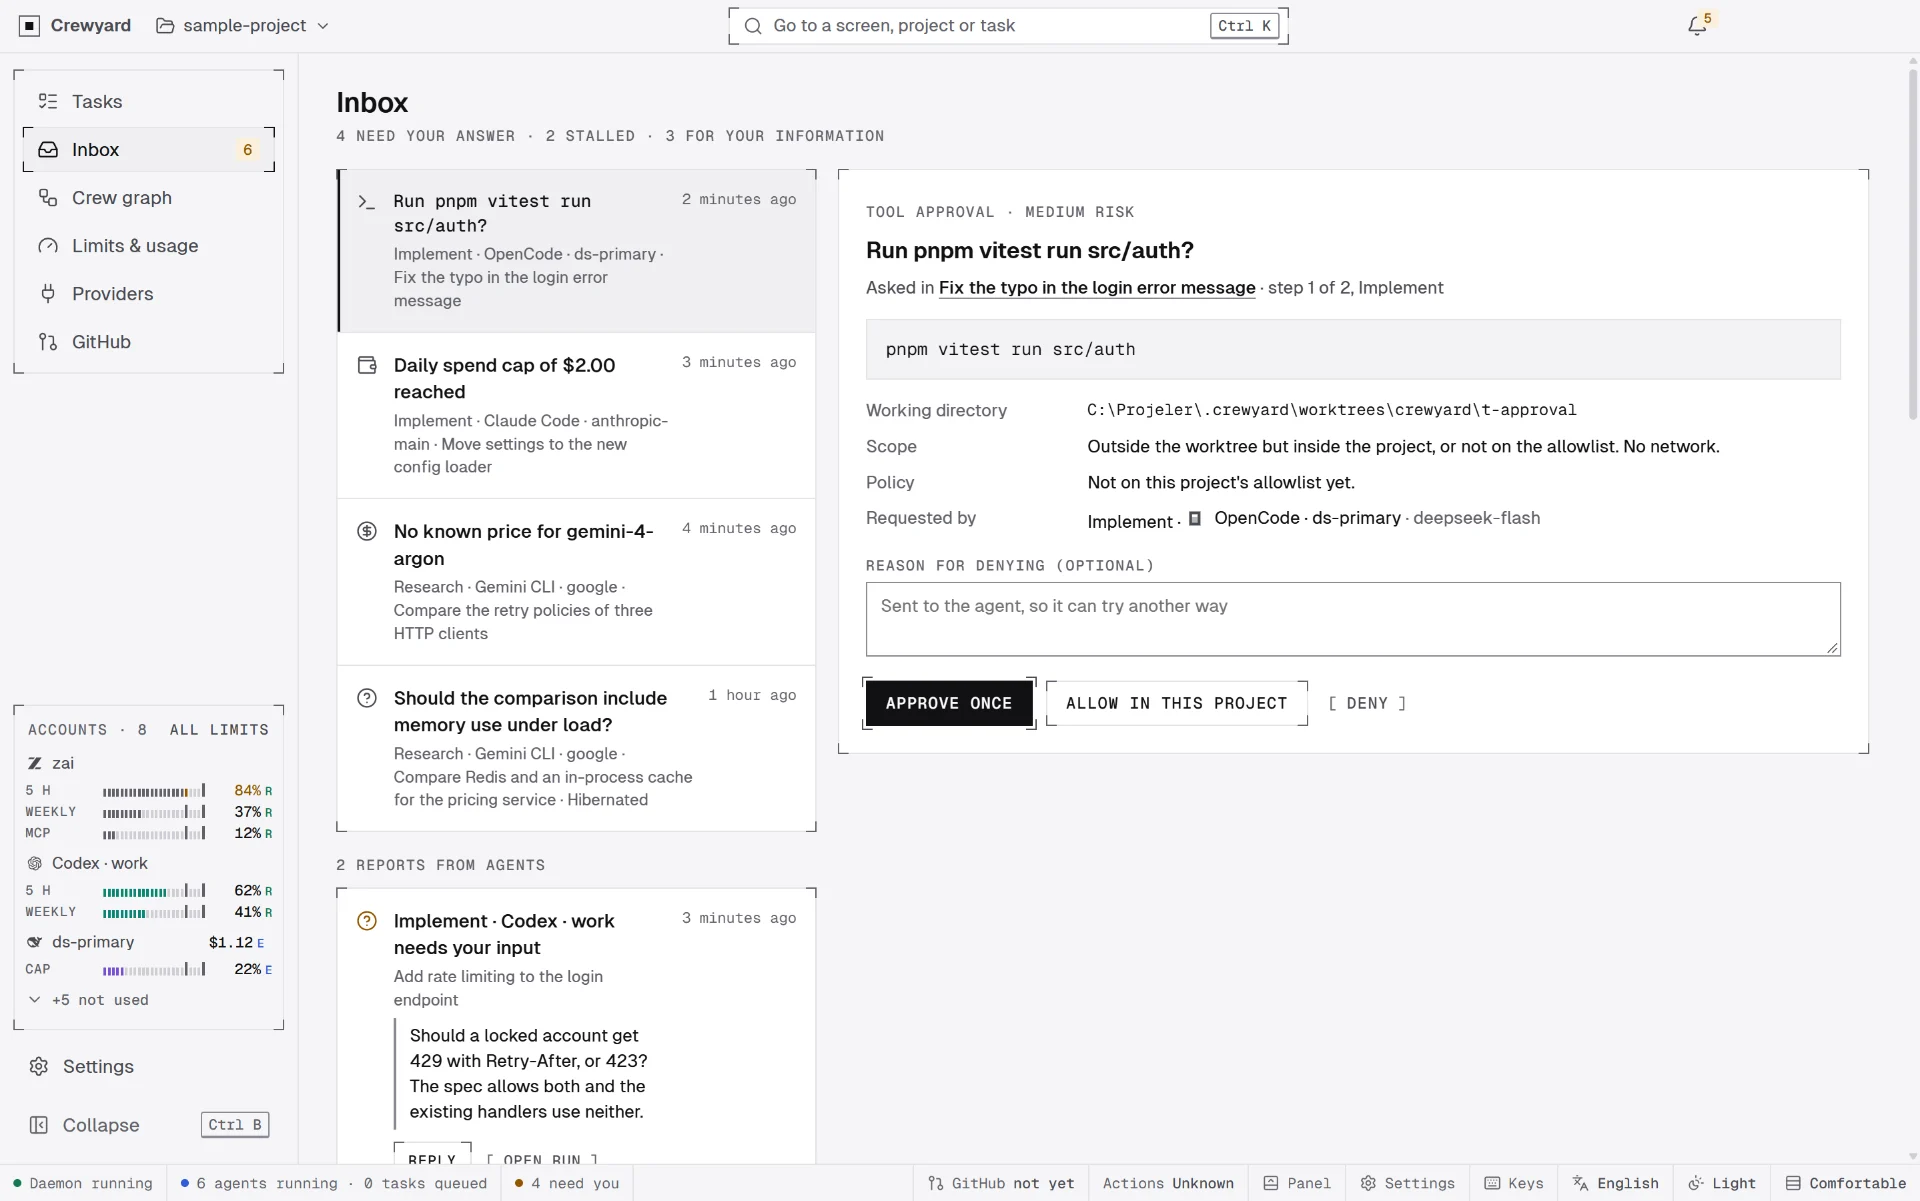
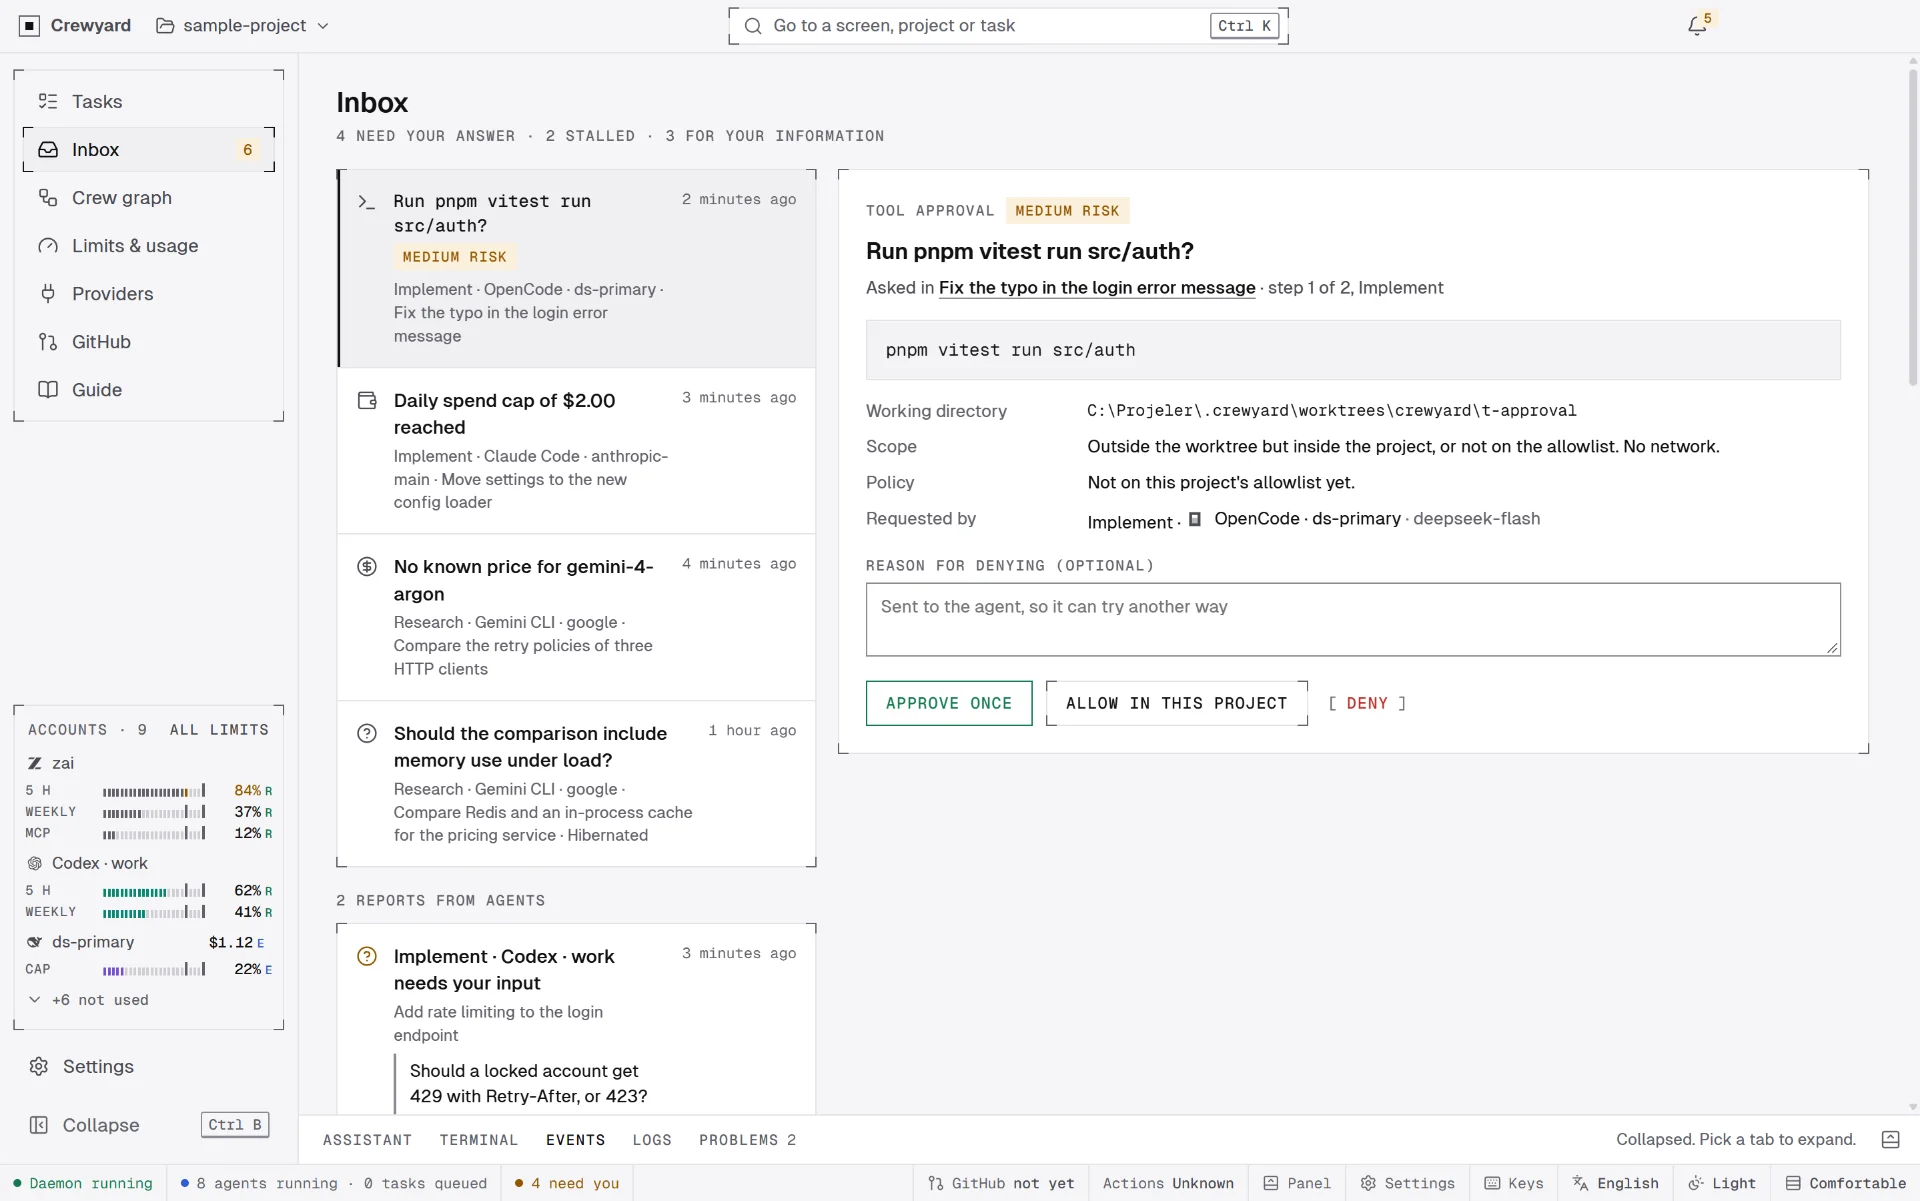
Release 0.2.0
Retake the website's app screenshots from a neutral sample folder, add the 0.2.0 release notes and bump both package versions.

diff --git a/docs/release-notes/v0.2.0.md b/docs/release-notes/v0.2.0.md
@@ -1,0 +1,66 @@
+Crewyard 0.2.0 is the first public release. The repository is now public under the MIT licence, and this is the first build for macOS and Linux as well as Windows. It is a pre-release: builds are unsigned and do not update themselves.
+
+## Orchestra, Crew and Solo
+
+The composer has three ways to run work, and **Orchestra** is the default when a profile can plan read-only ([ADR 0019](https://github.com/yusufky63/crewyard/blob/main/docs/adr/0019-orchestra-goals.md)).
+
+- **Orchestra:**
+  - You write a goal. One read-only planning run, with its estimate and ceiling on the button, returns a plan of up to eight tasks with their dependencies and the files each will change.
+  - One click approves it with a prefilled goal budget. Tasks that touch the same files are ordered for you.
+  - The scheduler releases tasks in order, at most two at a time per goal. Each finished task merges into the goal's own branch, in Crewyard's own worktree.
+  - A last review of all changes opens the pull request gate. You open the pull request.
+- **Crew:** the flow from 0.1: one task, a proposed crew you approve.
+- **Solo:** one agent, started by your click on its shown estimate. It is never remembered as the default.
+- **Your click is still needed for:** a revised plan, a replan, an added task, a research report that code builds on, and spend past any cap.
+- **Always yours:** push, pull requests, merges into your branches and deletes.
+- **Pausing:** `Pause goal` and `Pause all goals` hold planning, retries and review loops too.
+- **New project daily cap.** The project's daily budget from the setup wizard is now enforced on every paid run and fallback.
+
+## External access over MCP
+
+An agent you run outside the app (Claude Code, Claude Desktop, Cursor, Codex) can connect to Crewyard as an MCP server ([ADR 0021](https://github.com/yusufky63/crewyard/blob/main/docs/adr/0021-external-mcp.md)).
+
+- **What it can do:**
+  - read projects, tasks, reports, the Inbox, spend and settings;
+  - add a folder as a project;
+  - tighten project settings;
+  - change test and build commands and MCP servers;
+  - propose tasks.
+- **What it never does:** approve, start, push, merge, delete, answer the Inbox or read a key.
+- **Off by default.** Settings → External access turns it on, gives each client its own token (kept with DPAPI) and a copyable config, and revokes a client. No TCP port is opened.
+
+## Task assistant
+
+- **Live state:** the conversation shows what the assistant is doing under your message: starting, thinking, or the latest call with the time since the turn began.
+- **Replies:** rendered as text-only Markdown with Copy, Quote and Make drafts from this; code blocks copy.
+- **Message box:** clearer, with a primary Send and a Stop.
+- **Read tools:** the assistant reads much more of the app: tasks, reports, crews, the Inbox, events, spend and limits, profiles, settings, local git, problems and your instruction files ([ADR 0018](https://github.com/yusufky63/crewyard/blob/main/docs/adr/0018-assistant-read-tools.md)).
+- **Drafts:** it can refine its own open drafts.
+- **Open task** now takes you to the task from anywhere.
+
+## Interface
+
+- **Bottom panel:** it folds to its tab strip from a toggle in its head, like the sidebar and the inspector, and never stops anything when folded.
+- **Research reports:** in the inspector they read as a document, with a severity bar that filters, expandable findings, `file:line` links into the Files tab, and a Suggested tasks block and tab.
+- **Colours:** red, amber and green now mark the controls and states that mean them: Stop, Turn on and Turn off, risk, verdicts.
+- **New Guide screen** (`G W`): the three ways to run work, the flow, a getting-started checklist read from your setup, what else Crewyard does, and questions.
+
+## Providers
+
+- **Gemini CLI's Google sign-in** is labelled for Gemini Code Assist Standard or Enterprise accounts. Google stopped serving personal accounts in Gemini CLI on 2026-06-18; use a paid Gemini API key instead.
+- **New models by API key:** Gemini 4 Argon and Gemini 3.8 Flash, with Gemini CLI and OpenCode.
+- **Claude** profiles stay API-key only.
+
+## Platforms and project
+
+- **Platforms:** Windows 11 x64; macOS 13 or later on Apple silicon and Intel (ad-hoc signed, not notarized); Linux x64 as AppImage and .deb.
+- **Checksums:** every release carries `SHA256SUMS.txt`.
+- **Licence:** MIT, Copyright (c) 2026 Yusuf.
+- **Docs:** SECURITY.md and CONTRIBUTING.md are new.
+- **Website:** lists every release as it is published.
+
+## Known limits
+
+- macOS and Linux packages are built and smoke-started on GitHub's runners but have not been tried on a real machine yet. Reports are welcome.
+- Orchestra's planning estimate is a fixed heuristic until real planning runs measure it.
+- No build updates itself yet; download the next release from the releases page.
